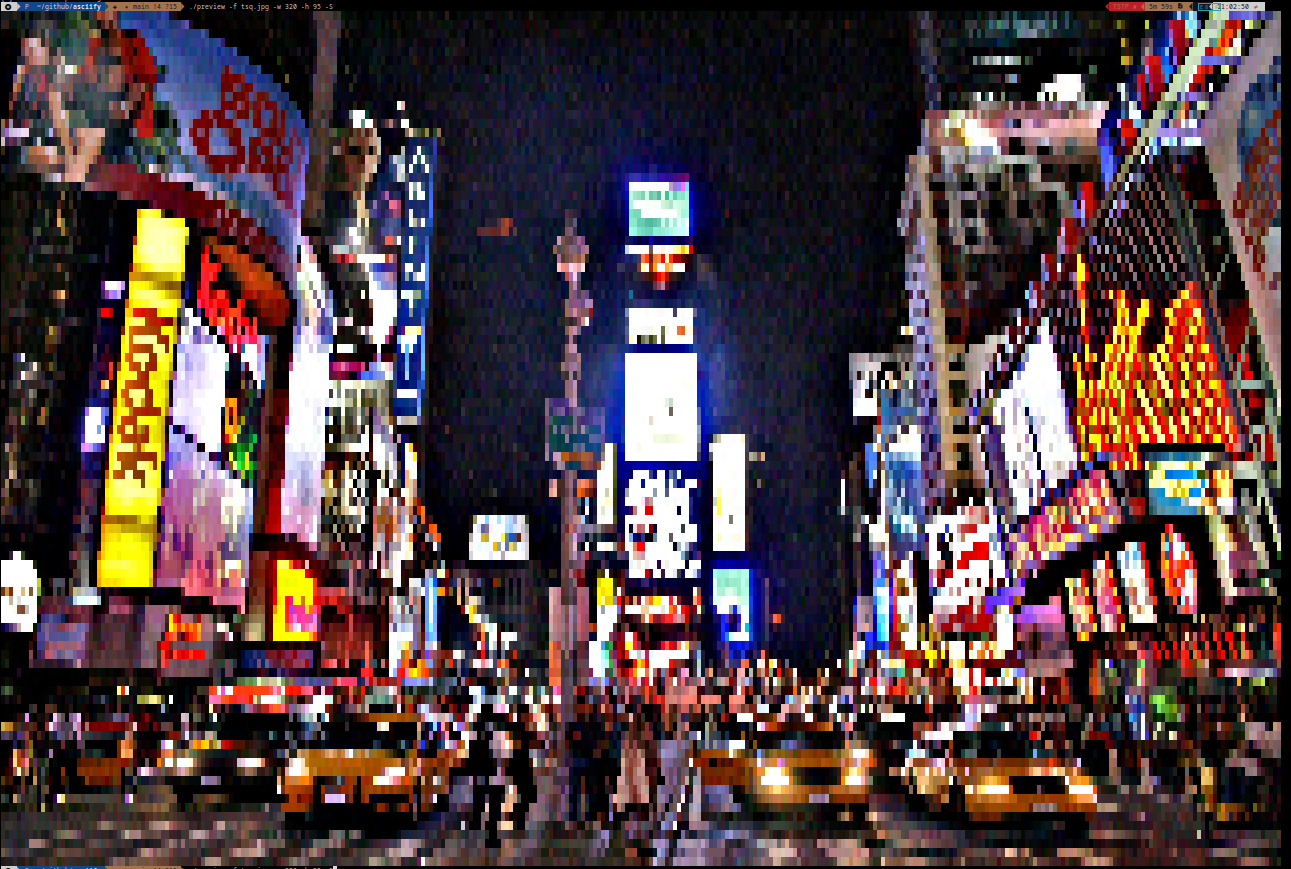
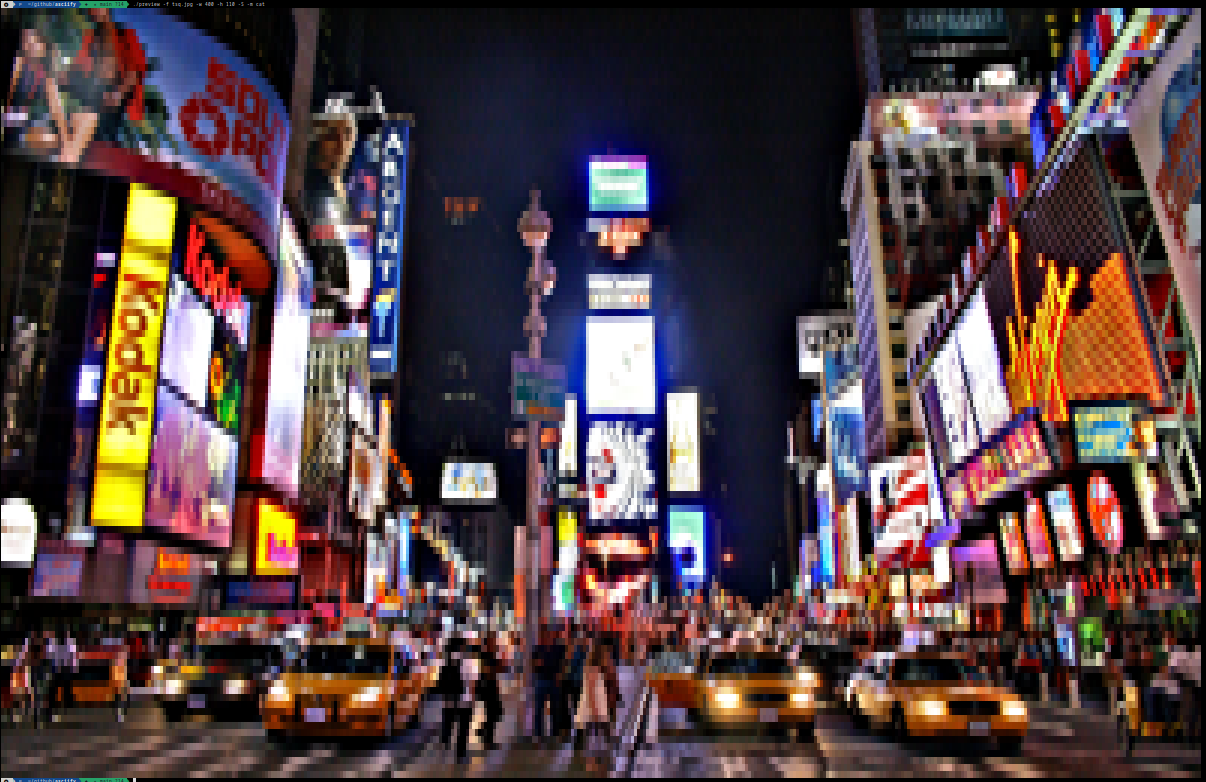
update example, make colour optional with ASCII output

diff --git a/cmd/asciify/main.go b/cmd/asciify/main.go
@@ -23,6 +23,7 @@ type Config struct {
 	printASCII bool
 	reverse    bool
 	saveScaled string
+	colour     bool
 
 	// not flags, but avoid doing the getting extensions a second time
 	inExt, outExt string
@@ -117,6 +118,7 @@ func main() {
 	flag.BoolVar(&conf.overwrite, "r", false, "ReplaceAll output file if exists")
 	flag.BoolVar(&conf.printASCII, "A", false, "Print image as ASCII chars")
 	flag.BoolVar(&conf.reverse, "n", false, "Make negative of the ASCII output (white <> black)")
+	flag.BoolVar(&conf.colour, "C", false, "Show image in colour")
 	flag.StringVar(&conf.saveScaled, "c", "", "Save a copy of the scaled image under given file name")
 
 	// get the args
@@ -137,8 +139,13 @@ func main() {
 		fmt.Println(err)
 		os.Exit(1)
 	}
+	var strImg string
 	// create scaled image string
-	strImg := convert.ImgToASCIIColoured(scaled, conf.reverse, false)
+	if conf.colour {
+		strImg = convert.ImgToASCIIColoured(scaled, conf.reverse, false)
+	} else {
+		strImg = convert.ImgToASCII(scaled, conf.reverse, false)
+	}
 	// first, write the scaled copy
 	if err := writeOut(conf, strImg); err != nil {
 		fmt.Println(err)

diff --git a/README.md b/README.md
@@ -28,6 +28,7 @@ The help output details all the flags:
     	The width to resize the image to
   -c string
     	Save a copy of the scaled image under given file name
+  -C	Show image in colour
 ```
 
 Check the examples directory for an image that was downscaled, and the ASCII output it generated.
@@ -92,6 +93,8 @@ I find that the following usually is enough to get decent results:
 asciicam -w 160 -h 80
 ```
 
+Colour is currently not supported. The way we print colours to screen is just too slow.
+
 ## Running preview
 
 This is probably the simplest of the lot:
@@ -115,15 +118,15 @@ By specifying the max with and height, the image will be scaled to fit the speci
 
 Some examples:
 
-JPEG image of Times Square:
+JPEG image of Times Square. Command: `preview -f tsq.jpg -w 400 -h 110 -S -m cat`
 
 ![previewing Times Square](https://raw.githubusercontent.com/EVODelavega/asciify/main/example/preview_tsq.png)
 
-PNG image (VIM logo with transparent background):
+PNG image (VIM logo with transparent background). Command: `preview -f example/vim.png -w 200 -h 85 -S`
 
 ![VIM logo PNG](https://raw.githubusercontent.com/EVODelavega/asciify/main/example/preview_vim_logo.png)
 
-The vim logo is included in the examples folder. The picture of times square can be found with a simple image search on duckduckgo. I have not included the original, as I don't know who owns the copyright to said image.
+The vim logo is included in the examples folder. The picture of times square can be found with a simple image search on duckduckgo. I have not included the original, as I don't know who owns the copyright to said image. The Times Square image, because of its size, and the high contrast, is best previewed using Catmull-Rom interpolation. The default (nearest neighbout) produces sharper output, but when scaling down images a lot (from 2816x1880 to 400x110), the result often ends up looking less than ideal. Because of the way we print out colours to the terminal, displaying the output often takes longer than scaling/procesing it does.
 
 ## Credit
 
